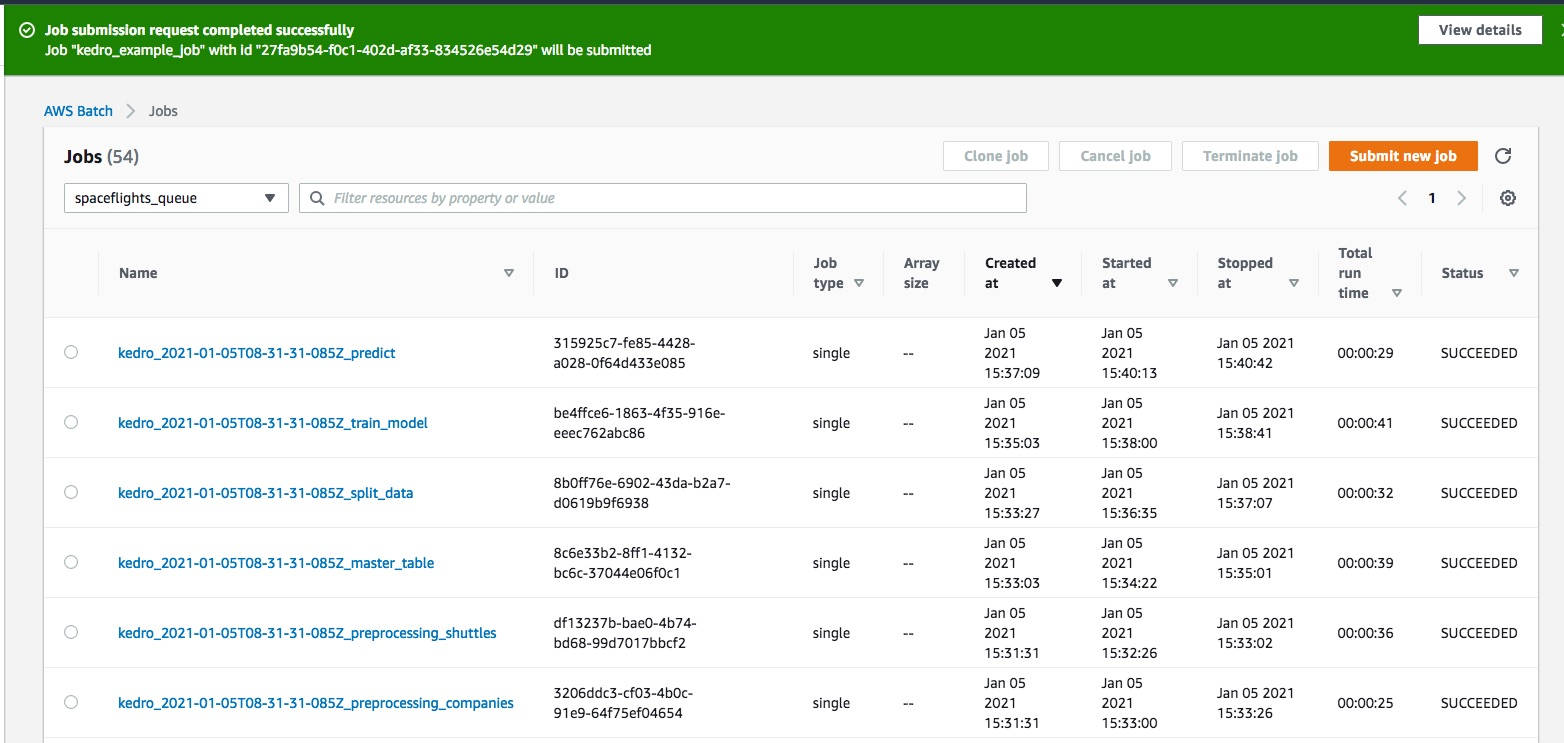
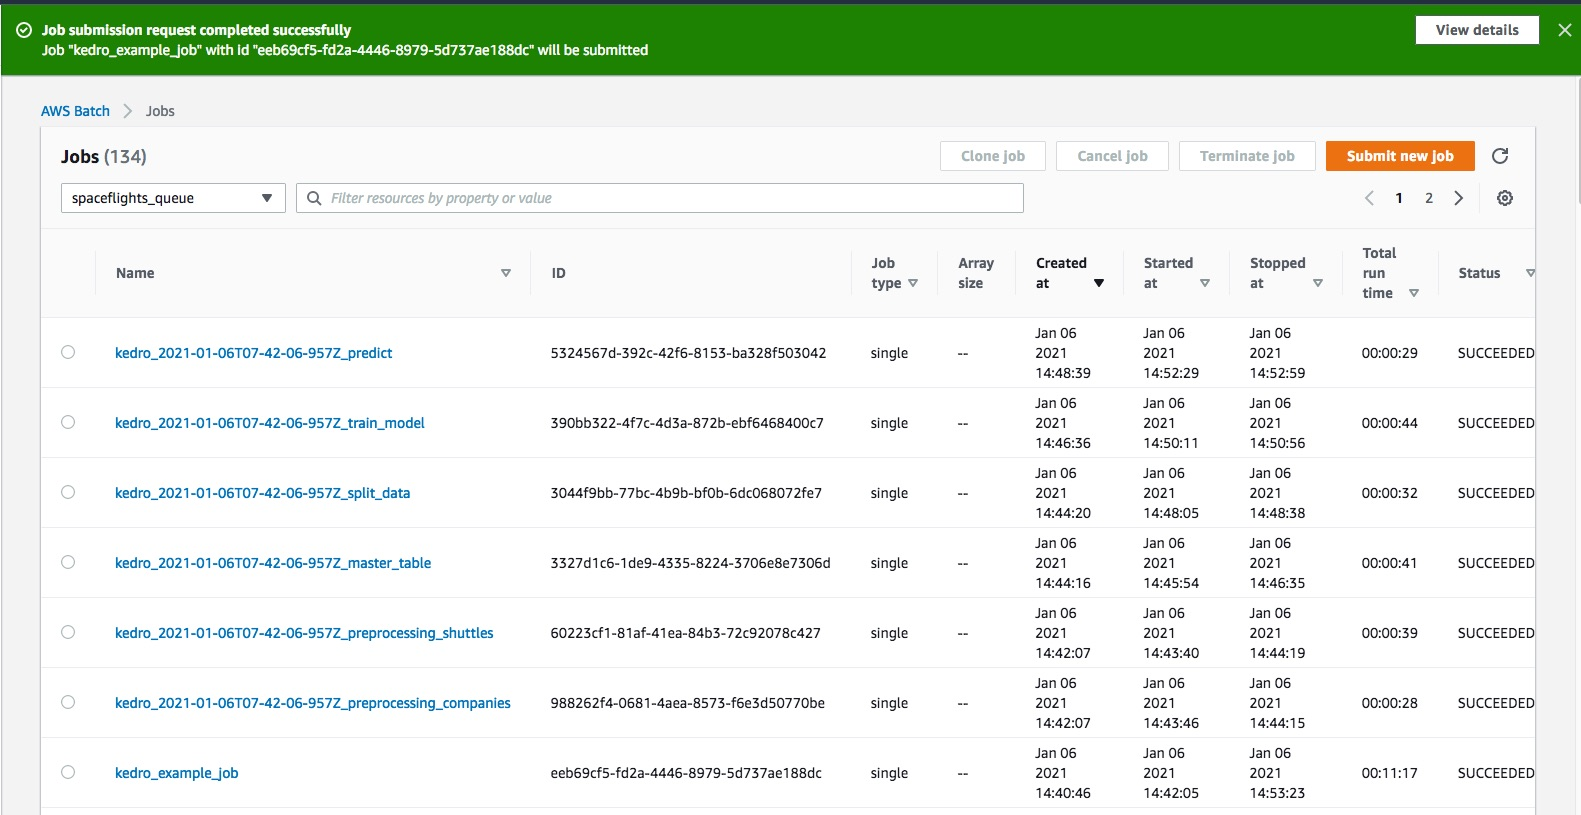
Update README

diff --git a/README.md b/README.md
@@ -15,10 +15,16 @@
     example$ ./scripts/build.sh
     ```
 
++ ECR Login
+    ```
+    aws ecr get-login-password --region <region> | docker login --username AWS --password-stdin <ecr_id>.dkr.ecr.<region>.amazonaws.com
+    ```
++ Login AWS Console and create an ECR repository
+
 + Push image into ECR
     ```
-    docker tag [image uri]
-    docker push [image uri]
+    docker tag [repository uri]
+    docker push [repository uri]
     ```
 
 + Create IAM role
@@ -40,6 +46,9 @@
 + Create AWS Batch job definition
     ```
     Create a job definition named `kedro_run`, assign it the newly created `batchJobRole` IAM role, the container image you’ve packaged above, execution timeout of 300s and 2000MB of memory
+    ```
+    ```
+    For me: Should set the execution timeout is 900s. It avoids the main batch to fail due to execution timeout.
     ```
 
 + Run Kedro node(Run Jobs)
@@ -118,15 +127,17 @@
 
 
 ### Results
++ Kedro Visualise Pipelines
+    ![Kedro Viz](images/Kedro-Viz.jpg)
+
 + Kedro run Node
     ![NodeRun](images/kedro-run-node.png)
-
 
 + Kedro Example Job
     ![ExampleJob](images/kedro-example-job.jpg)
 
-+ Kedro Job Log
-    ![Job Log](images/kedro-job-log.jpg)
++ Kedro Example Job Log
+    ![ExampleJobLog](images/kedro-example-job-log.jpg)
 
 
 ### References
